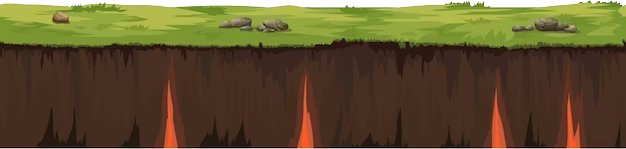
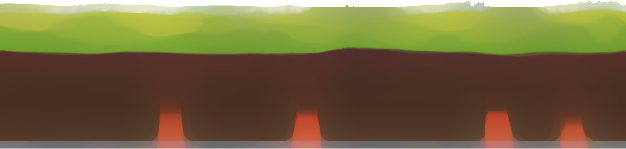
more assets

diff --git a/src/app/bja-game/scenes/main.scene.ts b/src/app/bja-game/scenes/main.scene.ts
@@ -1,39 +1,99 @@
 import { Scene } from 'phaser';
 
 const WORLD_WIDTH = 100_000;
+const FLOWERS_ASSETS = 2;
+const TREES_ASSETS = 1;
+const OBJECT_COUNT = Math.floor(WORLD_WIDTH/1400);
 
 export class MainScene extends Scene {
   private bg!: Phaser.GameObjects.TileSprite;
   private cam!: Phaser.Cameras.Scene2D.Camera;
   private i!: Phaser.Types.Physics.Arcade.SpriteWithDynamicBody;
   private ground!: Phaser.GameObjects.TileSprite;
+  private ground2!: Phaser.GameObjects.TileSprite;
+  private yPos!: number;
 
   preload() {
     this.load.image('bg','/assets/bg2.jpg');
+    this.load.image('cat','/assets/cat.png');
     this.load.image('ground','/assets/ground.png');
+    this.load.image('sun','/assets/sun.png');
+
+
+    for(let i=1; i<=FLOWERS_ASSETS; i++) {
+      this.load.image(`flower-${i}`,`/assets/flower-${i}.png`);
+    }
+    for(let i=1; i<=TREES_ASSETS; i++) {
+      this.load.image(`tree-${i}`,`/assets/tree-${i}.png`);
+    }
   }
+
   init() {
     this.cam = this.cameras.main;
+    this.yPos = this.cam.height-80;
+  }
+
+  placeObjects() {
+    let lastFlower = 1;
+    let lastTree = 1;
+    let lastPos = this.drawX() + 600;
+    for(let i=0; i<OBJECT_COUNT; i++) {
+      const flower = this.physics.add.image(lastPos,this.yPos, `flower-${lastFlower}`);
+      flower.setOrigin(0.5,1)
+      flower.setScale(0.6 + (0.001*i))
+      this.physics.add.collider(this.i, flower, ()=>{
+        flower.destroy()
+        this.i.setVelocityX(50)
+      });
+      flower.setDepth(400)
+      lastPos = this.drawX()+lastPos+500;
+
+      this.add.sprite(lastPos+300,this.yPos+20, `tree-${lastTree}`)
+        .setOrigin(0.5,1)
+        .setScale(1 + (Math.random()-0.5))
+        .setScrollFactor(0.9)
+        .setAlpha(0.8)
+        .setDepth(60)
+
+      lastFlower++;
+      if(lastFlower > FLOWERS_ASSETS) {
+        lastFlower = 1;
+      }
+      lastTree++;
+      if(lastTree > TREES_ASSETS) {
+        lastTree = 1;
+      }
+
+
+    }
+  }
+
+  drawX() {
+    return Math.random()*500
   }
 
   create() {
     this.cam.setBounds(0,0,WORLD_WIDTH,this.cam.height)
-    this.bg = this.add.tileSprite(0, 0, this.cam.width*100, this.cam.height, 'bg');
-    this.bg.setScale(1.7)
+    this.bg = this.add.tileSprite(0, -50, WORLD_WIDTH, this.cam.height, 'bg');
+    this.bg.setScale(2.5 )
     this.bg.setScrollFactor(0.4)
 
-    this.ground= this.add.tileSprite(0,this.cam.height,WORLD_WIDTH,150, 'ground').setOrigin(0,1)
+    this.ground= this.add.tileSprite(0,this.cam.height+80,WORLD_WIDTH,150, 'ground').setOrigin(0,1).setDepth(300)
+    this.ground2= this.add.tileSprite(0,this.cam.height+50,WORLD_WIDTH,150, 'ground').setOrigin(0,1).setDepth(300)
     this.physics.add.existing(this.ground);
     // @ts-ignore
     this.ground.body.immovable = true;
+    // @ts-ignore
+    // this.ground.body.setFrictionX(1000000);
 
-    this.i = this.physics.add.sprite(300, this.cam.height - 200, 'test');
+    this.i = this.physics.add.sprite(300, this.cam.height - 200, 'cat');
+    this.i.setDepth(500)
+    this.i.setScale(0.7)
     this.i
       .setCollideWorldBounds(false)
-      .setGravityY(500)
-      .setVelocity(300)
+      .setGravityY(1000)
+      .setVelocity(this.targetVelocity)
 
-    // this.cameras.main.startFollow(this.i);
     this.physics.add.collider(this.i, this.ground);
 
     this.input.enabled = true;
@@ -41,19 +101,34 @@ export class MainScene extends Scene {
     this.input.keyboard.on('keydown',  (event)=> {
       this.jump();
     });
+
+    this.placeObjects();
+
+    const sun = this.add.sprite(this.cam.width-150, 150, 'sun').setScrollFactor(0).setDepth(50)
+    this.add.tween({
+      targets:[sun],
+      angle: 360,
+      repeat: -1,
+      duration: 7000
+    })
   }
 
+  targetVelocity = 300;
   override update(time: number, delta: number) {
-    if(delta > 16) {
+    // if(delta > 16) {
+    //   this.physics.world.update(time, delta)
       this.cam.setScroll(this.i.x - 300, this.cam.y)
-
-    }
+      this.i.setVelocityX(Math.min(this.targetVelocity, this.i.body.velocity.x+10));
+    // }
   }
 
   private jump() {
-    if(this.i.body.velocity.y!=0) {
+    if(Math.abs(this.i.y)<650) {
       return
     }
-    this.i.setVelocityY(-500);
+    this.i.setVelocityY(-700);
   }
+}
+function getRandomArbitrary(min: number, max:number) {
+  return Math.random() * (max - min) + min;
 }

diff --git a/src/app/bja-game/componens/play-game/play-game.component.ts b/src/app/bja-game/componens/play-game/play-game.component.ts
@@ -15,13 +15,17 @@ export class PlayGameComponent implements OnInit {
     this.game = new BjaGame({
       scene: MainScene,
       scale: {
-        width: 1200,
+        width: 1400,
         height: 800,
         mode: ScaleModes.FIT,
       },
       physics: {
-        default: 'arcade'
-      }
+        default: 'arcade',
+        arcade: {
+          // customUpdate: true
+        }
+      },
+      parent: 'pag-canvas'
     });
   }
 }

diff --git a/src/app/bja-game/componens/play-game/play-game.component.scss b/src/app/bja-game/componens/play-game/play-game.component.scss
@@ -1,8 +1,16 @@
 #pag-canvas {
   width: 100%;
   height: 100%;
-  position: fixed;
-  left: 0;
-  top: 0;
+  //position: fixed;
+  //left: 50%;
+  //top: 0;
 }
 
+:host div {
+  display: flex;
+  justify-content: center;
+  align-items: center;
+  width: 100vw;
+  height: 100vh;
+  background: #000;
+}

diff --git a/src/app/bja-game/componens/play-game/play-game.component.html b/src/app/bja-game/componens/play-game/play-game.component.html
@@ -1,1 +1,1 @@
-<canvas id="pag-canvas"></canvas>
+<div id="pag-canvas"></div>
